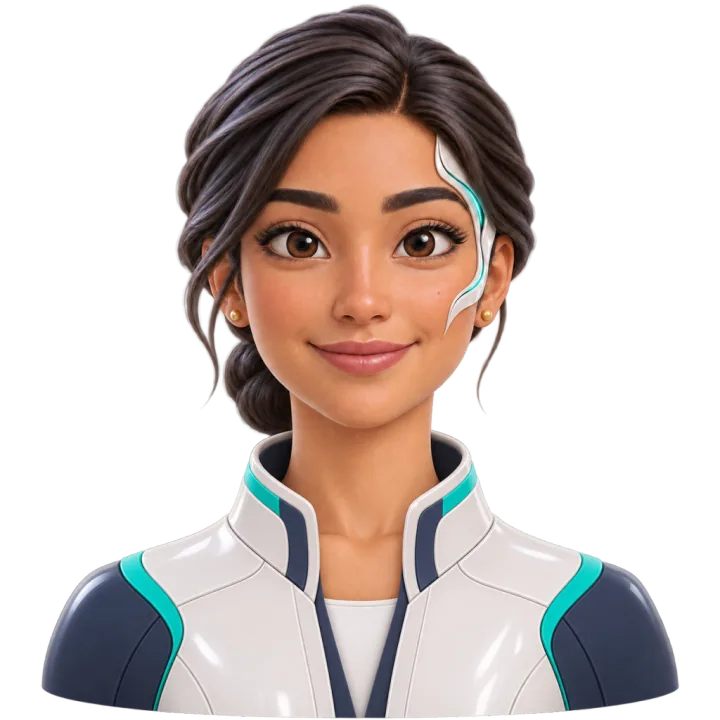
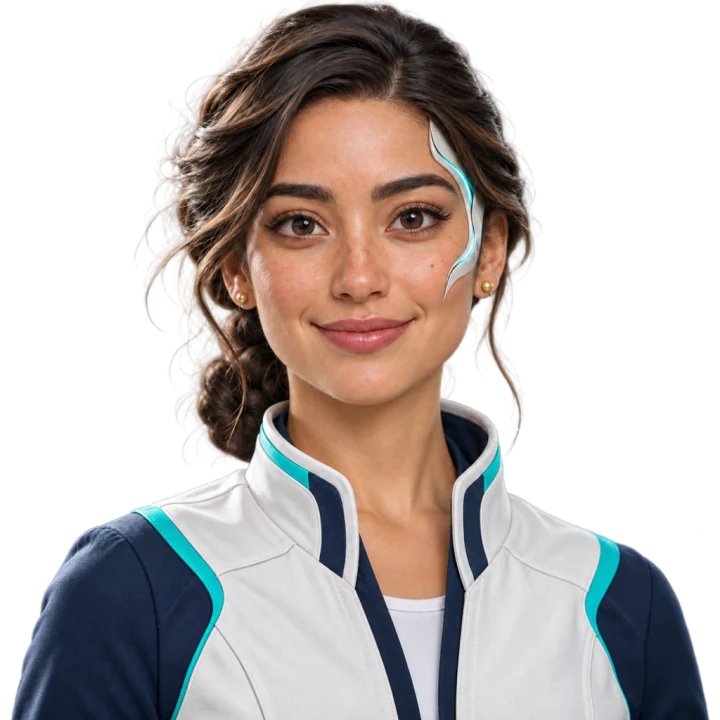
feat(aria): rostro realista en Inicio
Claude-Session: https://claude.ai/code/session_017Kko2YsRd1NQAcYQQa9zCp

diff --git a/src/inicio/inicio.css b/src/inicio/inicio.css
@@ -44,7 +44,7 @@ svg.dxi-i{width:20px;height:20px;fill:none;stroke:currentColor;stroke-width:1.8;
 .dxi-btn:active{transform:scale(.97)}
 .dxi-btn.dxi-p{background:linear-gradient(135deg,#00BCD4,#0097A7);color:#04232A;box-shadow:0 8px 24px rgba(0,188,212,.35)}.dxi-btn.dxi-p:hover{box-shadow:0 10px 30px rgba(0,188,212,.5)}
 .dxi-btn.dxi-g{background:rgba(255,255,255,.1);color:#fff;box-shadow:inset 0 0 0 1px rgba(255,255,255,.18)}.dxi-btn.dxi-g:hover{background:rgba(255,255,255,.16)}
-.dxi-stage{position:relative;z-index:1;align-self:end;justify-self:center;width:340px;height:340px;margin:-30px 0 -86px;perspective:800px}
+.dxi-stage{position:relative;z-index:1;align-self:end;justify-self:center;width:330px;height:330px;margin:-30px 0 -86px;perspective:800px}
 /* CONTENT */
 .dxi-content{padding:0 32px;margin-top:-58px;position:relative;z-index:3;display:flex;flex-direction:column;gap:16px}
 .dxi-ask{border-radius:17px;padding:1.5px;background:linear-gradient(100deg,#00BCD4,#7C5CFF 55%,#00BCD4);background-size:220% 100%;animation:dx-inicio-sweep 7s linear infinite,dx-inicio-rv .55s cubic-bezier(.2,.8,.2,1) .3s forwards;box-shadow:0 18px 44px rgba(10,20,40,.2)}

diff --git a/src/styles.css b/src/styles.css
@@ -4508,8 +4508,8 @@ body {
 [data-s=habla] .dxi-av-bob{animation:dx-inicio-talkbob 1.5s ease-in-out infinite}
 .dxi-av img.dxi-bs{position:absolute;inset:0;width:100%;height:100%;object-fit:contain;filter:drop-shadow(0 18px 30px rgba(0,0,0,.35))}
 .dxi-ly{position:absolute;opacity:0;transition:opacity .07s linear;pointer-events:none}
-.dxi-ly.dxi-eye{left:27.344%;top:22.461%;width:45.313%;height:18.555%}
-.dxi-ly.dxi-mouth{left:36.133%;top:40.039%;width:28.711%;height:24.805%}
+.dxi-ly.dxi-eye{left:32.227%;top:23.438%;width:36.132%;height:13.671%}
+.dxi-ly.dxi-mouth{left:38.086%;top:40.039%;width:24.414%;height:17.578%}
 .dxi-ly.dxi-on{opacity:1}.dxi-ly.dxi-think{transition:opacity .28s}
 .dxi-fx{position:absolute;left:50%;top:44%;width:74%;aspect-ratio:1;transform:translate(-50%,-50%);pointer-events:none}
 .dxi-fx i{position:absolute;inset:0;border-radius:50%;border:2px solid rgba(127,231,242,.65);opacity:0}

diff --git a/src/inicio/assets.js b/src/inicio/assets.js
@@ -21,16 +21,16 @@ export const assets = {
   robot
 };
 export const ojos = [{
-  box: [34.18, 29.395, 49.023, 37.988],
-  ex: 7.24,
-  ey: 4.55,
+  box: [35.938, 27.734, 47.656, 34.766],
+  ex: 6.67,
+  ey: 4.17,
   sclera: ls,
   mask: lm,
   iris: li
 }, {
-  box: [51.27, 29.395, 66.113, 37.988],
-  ex: 7.24,
-  ey: 4.55,
+  box: [51.953, 26.953, 63.672, 33.984],
+  ex: 6.67,
+  ey: 4.17,
   sclera: rs,
   mask: rm,
   iris: ri
